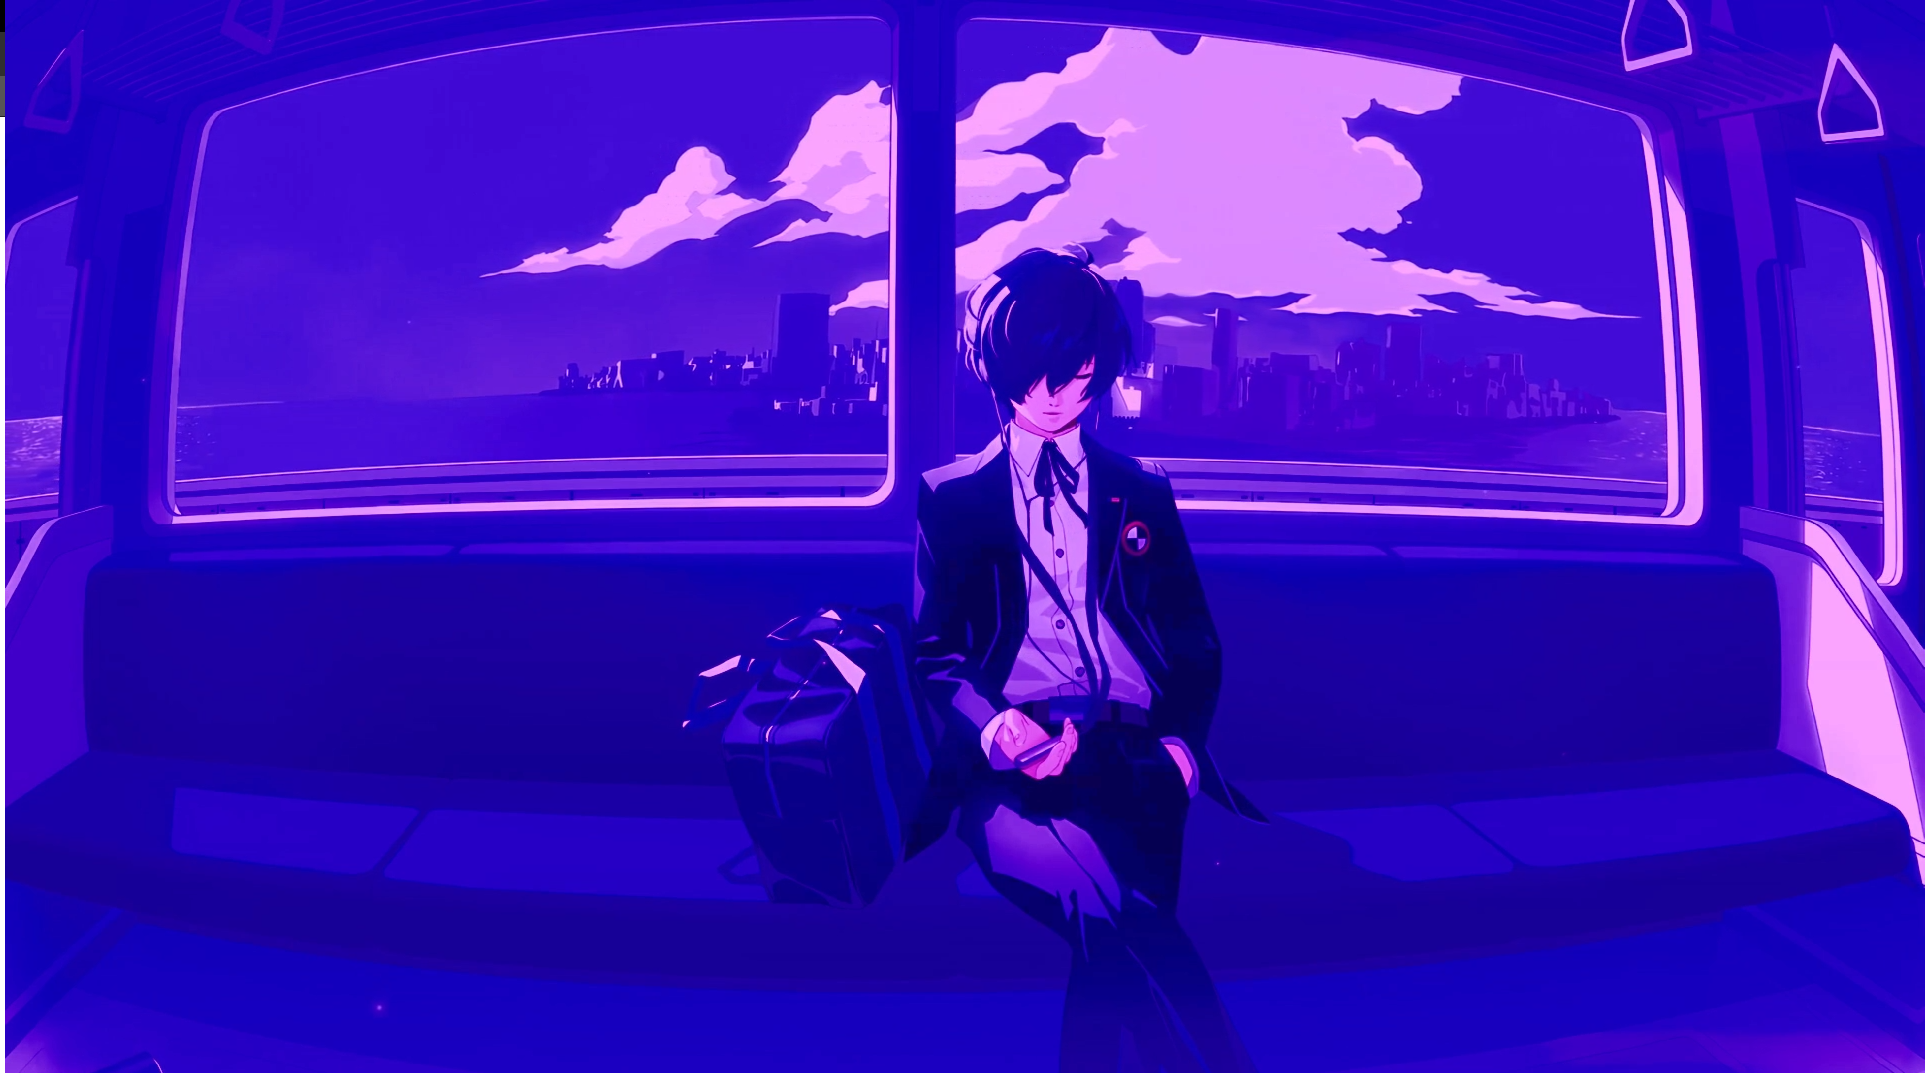
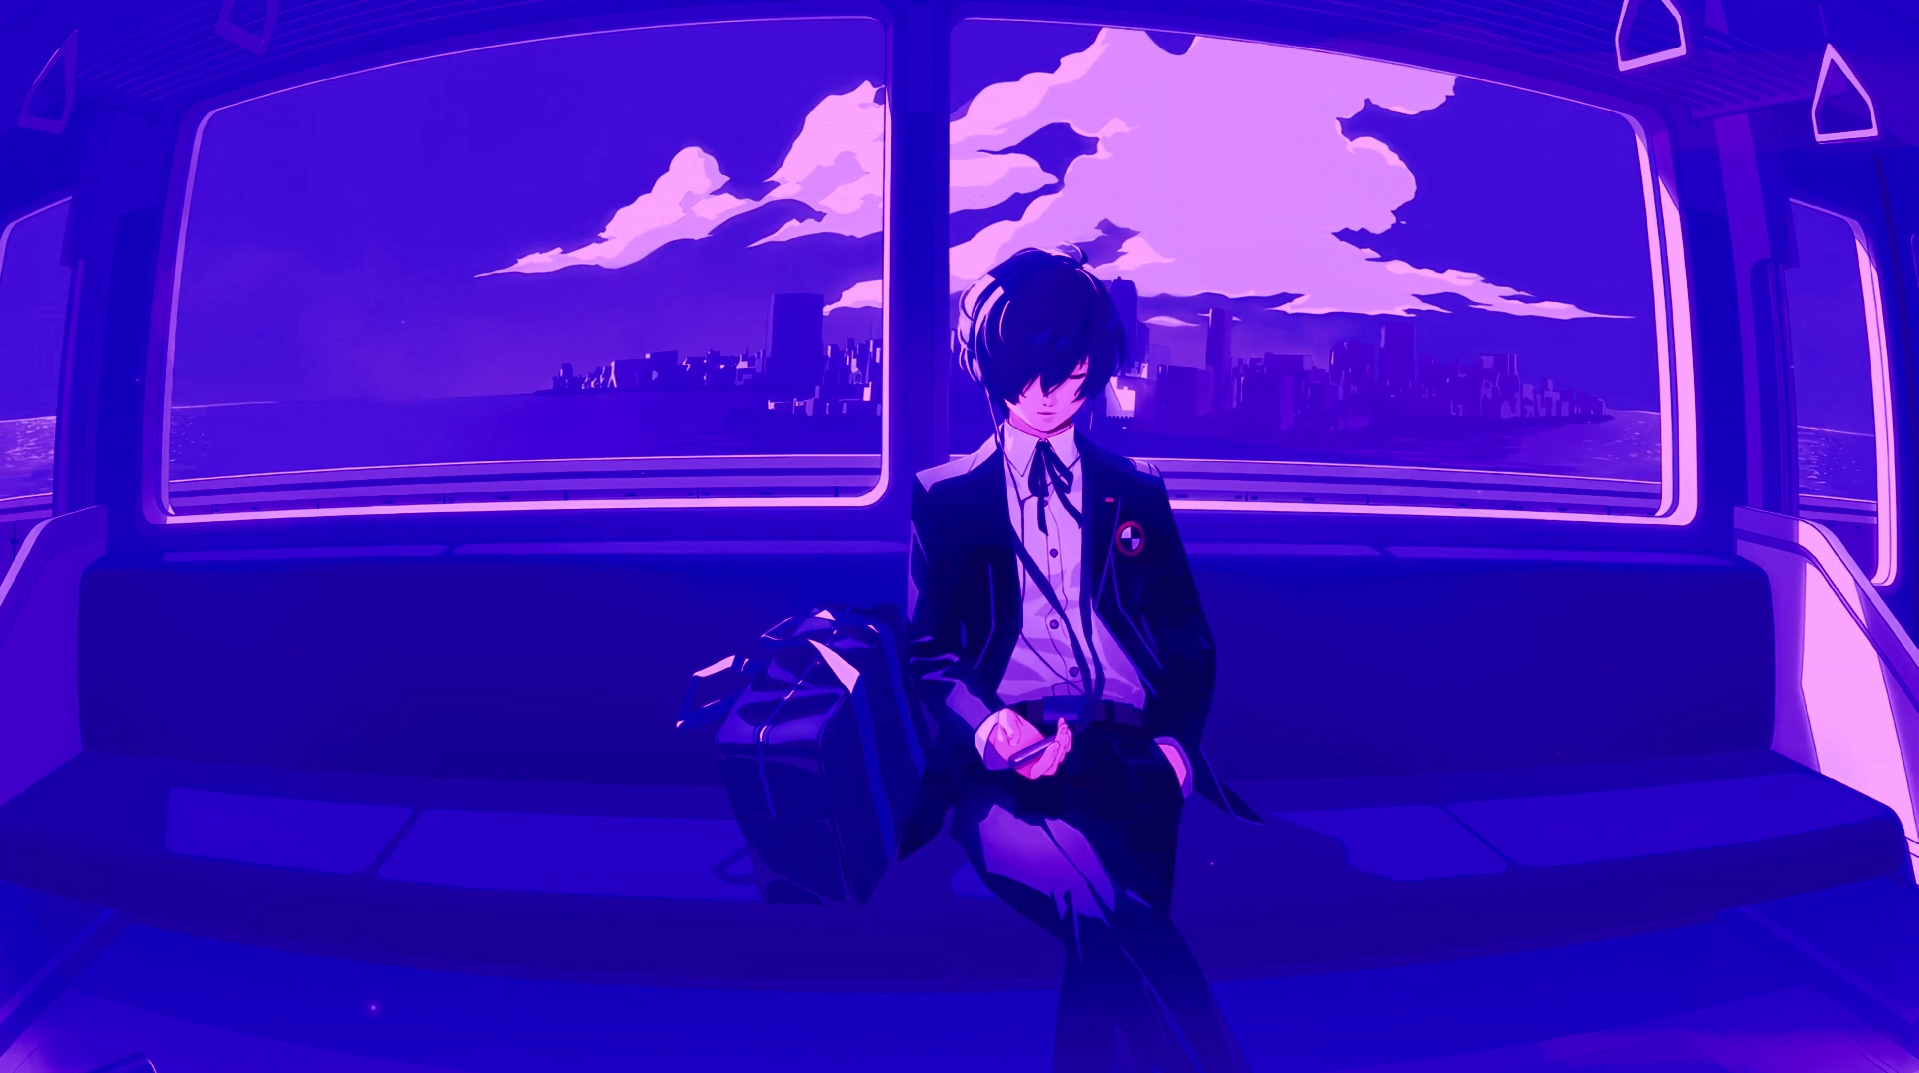
Added about prototype and some minor adjustments to margins and paddings

diff --git a/src/lib/tcontainer.svelte b/src/lib/tcontainer.svelte
@@ -1,38 +1,40 @@
-<div class="main-container">
-    <div class="ascii-wrapper">
+<div id={id} class="main-container">
+    <!-- <div class="ascii-wrapper">
     <h2>██     ██ ███████ ██      ██████   ██████  ███    ███ ███████</h2>
     <h2>██     ██ ██      ██      ██      ██    ██ ████  ████ ██     </h2>
     <h2>██  █  ██ █████   ██      ██      ██    ██ ██ ████ ██ █████  </h2>
     <h2>██ ███ ██ ██      ██      ██      ██    ██ ██  ██  ██ ██     </h2>
     <h2>███   ███ ███████ ███████ ██████  ████████ ██      ██ ███████</h2>
-    </div>
-    <!-- <div class="ascii-wrapper">
-        <h2>.__       __            __                                             </h2>        
-        <h2>/  |  _  /  |          /  |                                            </h2>
-        <h2>$$ | / \ $$ |  ______  $$ |  _______   ______   _____  ____    ______  </h2>
-        <h2>$$ |/$  \$$ | /      \ $$ | /       | /      \ /     \/    \  /      \ </h2>
-        <h2>$$ /$$$  $$ |/$$$$$$  |$$ |/$$$$$$$/ /$$$$$$  |$$$$$$ $$$$  |/$$$$$$  |</h2>
-        <h2>$$ $$/$$ $$ |$$    $$ |$$ |$$ |      $$ |  $$ |$$ | $$ | $$ |$$    $$ |</h2>
-        <h2>$$$$/  $$$$ |$$$$$$$$/ $$ |$$ \_____ $$ \__$$ |$$ | $$ | $$ |$$$$$$$$/ </h2>
-        <h2>$$$/    $$$ |$$       |$$ |$$       |$$    $$/ $$ | $$ | $$ |$$       |</h2>
-        <h2>$$/      $$/  $$$$$$$/ $$/  $$$$$$$/  $$$$$$/  $$/  $$/  $$/  $$$$$$$/ </h2>      
     </div> -->
+    <div class="ascii-wrapper">
+    <h2>██╗    ██╗███████╗██╗      ██████╗ ██████╗ ███╗   ███╗███████╗</h2>
+    <h2>██║    ██║██╔════╝██║     ██╔════╝██╔═══██╗████╗ ████║██╔════╝</h2>
+    <h2>██║ █╗ ██║█████╗  ██║     ██║     ██║   ██║██╔████╔██║█████╗  </h2>
+    <h2>██║███╗██║██╔══╝  ██║     ██║     ██║   ██║██║╚██╔╝██║██╔══╝  </h2>
+    <h2>╚███╔███╔╝███████╗███████╗╚██████╗╚██████╔╝██║ ╚═╝ ██║███████╗</h2>
+    <h2>.╚══╝╚══╝ ╚══════╝╚══════╝ ╚═════╝ ╚═════╝ ╚═╝     ╚═╝╚══════╝</h2>
+    </div>
 
     <div class="subheading">
         <h1>Hi! i'm Fauzan Rizky Naufal</h1>
         <h3>A.K.A [nvll-zen] [Victor Zenriel]</h3>
+        <h3>for navigation: click the nav on the top-left or the arrows </h3>
     </div>
 </div>
+
+<script>
+    export let id;
+</script>
 
 <style>
     .main-container {
         color: white;
-        background: black;
-        opacity: 0.7;
+        background: rgb(0, 0, 0);
+        opacity: 0.8;
         display: flex;
         flex-direction: column;
         width: 90vw;
-        height: 90vh;
+        height: 85vh;
         align-items: center;
         justify-content: center;
 
@@ -64,6 +66,6 @@
     }
 
     h3 {
-        font-size: clamp(14px, 2vw, 22px);
+        font-size: clamp(12px, 2vw, 22px);
     }
 </style>

diff --git a/src/lib/statusbar.svelte b/src/lib/statusbar.svelte
@@ -1,11 +1,17 @@
+<script>
+    import Time from "./status_bar/time.svelte";
+</script>
+
 <div class="status-bar">
     <div id="workspace" class="bar-component">
-        <p class="work-entry active">Home </p>
-        <p class="work-entry">About </p>
+        <p class="work-entry active"><a href="#home">Home</a> </p>
+        <p class="work-entry"><a href="#about">About</a> </p>
         <p class="work-entry">Contact </p>
     </div>
     <div id="current-workspace" class="bar-component ">(WORKSPACE)</div>
-    <div id="misc" class="bar-component ">TI:ME W*C STATUS</div>
+    <div id="misc" class="bar-component ">
+        <Time></Time>
+    </div>
 </div>
 
 <style>
@@ -13,13 +19,17 @@
         border: 1px solid purple;
         min-height: 50px;
         height: 5vh;
-        padding: 5px;
+        width: 98.75vw;
+        z-index: 2;
+        padding: 0.75vw;
         display: flex;
         align-items: center;
         justify-content: space-between;
         padding-right: 10px;
         padding-left: 10px;
         font-size: clamp(15px, 2vw, 24px);
+        white-space: pre;
+        position: fixed;
     }
 
     .bar-component {
@@ -30,10 +40,15 @@
         align-items: center;
         height: fit-content;
         width: fit-content;
+        border: 1px solid white;
     }
 
     #workspace {
         padding: 0;
+    }
+
+    #misc {
+        white-space: pre;
     }
 
     .work-entry {
@@ -53,6 +68,7 @@
     .active {
         color: black;
         background: white;
+        border-bottom: 3px solid white;
     }
 
     

diff --git a/src/routes/+page.svelte b/src/routes/+page.svelte
@@ -1,7 +1,17 @@
 <div class="main">
     <Statusbar></Statusbar> 
-    <Tcontainer class="tcontainer">
-    </Tcontainer>
+    <div class="horizontal-scroll">
+        <div class="page-container">
+            <div id="home" class="spacer-container"></div>
+            <Tcontainer class="tcontainer"></Tcontainer>
+            <div class="spacer-container"></div>
+            <div class="spacer-container"></div>
+            <Tcontainer class="tcontainer"></Tcontainer>
+            <div id="about" class="spacer-container"></div>
+        </div>
+</div>
+    
+    
 </div>
 
 <script>
@@ -12,16 +22,38 @@
 <style>
     @import url('https://fonts.googleapis.com/css2?family=JetBrains+Mono:ital,wght@0,100..800;1,100..800&family=Rajdhani:wght@300;400;500;600;700&display=swap');
 
+    .page-container {
+        display: flex;
+    }
+
+    .horizontal-scroll {
+        margin-top: calc(5vh + 1.5vw + 5px);
+        width: max-content;
+        height: fit-content;
+        overflow-x: scroll;
+        overflow-y: hidden;
+    }
+
+    .spacer-container {
+        width: 5vw;
+        height: 85vh;
+    }
+
     :global(*) {
         font-family: 'Rajdhani';
         font-weight: 700;
+    }
+
+    :global(h1) {
+        font-size: clamp(15px, 2vw, 24px);
     }
     .main {
         display: flex;
         flex-direction: column;
         background-image: url("../lib/MakotoYuki.png");
         background-position: center;
-        width: 100vw;
+        background-attachment: fixed;
+        width: 200vw;
         height: 100vh;
     }
 

diff --git a/src/lib/status_bar/time.svelte b/src/lib/status_bar/time.svelte
@@ -1,0 +1,46 @@
+<script>
+    let currentTime = {
+    hour: null,
+    minute: null
+  };
+
+  // Function to get the current hour, minute, and second
+  const updateTime = () => {
+    const now = new Date();
+    currentTime.hour = now.getHours();
+    currentTime.minute = now.getMinutes();
+  };
+
+  const now = new Date()
+  console.log(now.getHours())
+
+  // Update the time every second
+  const interval = setInterval(updateTime, 5000);
+  
+  // Ensure time is updated when the component is first mounted
+  updateTime();
+  </script>
+
+
+    <h1>{currentTime.hour}:{currentTime.minute < 10 ? '0' + currentTime.minute : currentTime.minute}&#160;</h1>
+    {#if currentTime.hour >= 21 | currentTime <= 5}<h1 class="sleep">STATUS: SLEEP</h1>{/if}
+    {#if currentTime.hour >= 19}<h1 class="free">STATUS: FREE</h1>{/if}
+    {#if currentTime.hour < 19}<h1 class="busy">STATUS: BUSY</h1>{/if}
+
+<style>
+    * {
+        margin: 0;
+    }
+
+    .busy {
+        color: rgb(250, 80, 80);
+    }
+
+    .free {
+        color: rgb(80, 246, 80);
+    }
+
+    .sleep {
+        color: rgb(248, 248, 80);
+    }
+</style>

diff --git a/src/app.html b/src/app.html
@@ -14,5 +14,9 @@
 		body {
 			margin: 0;
 		}
+
+		html {
+			scroll-behavior: smooth;
+		}
 	</style>
 </html>
